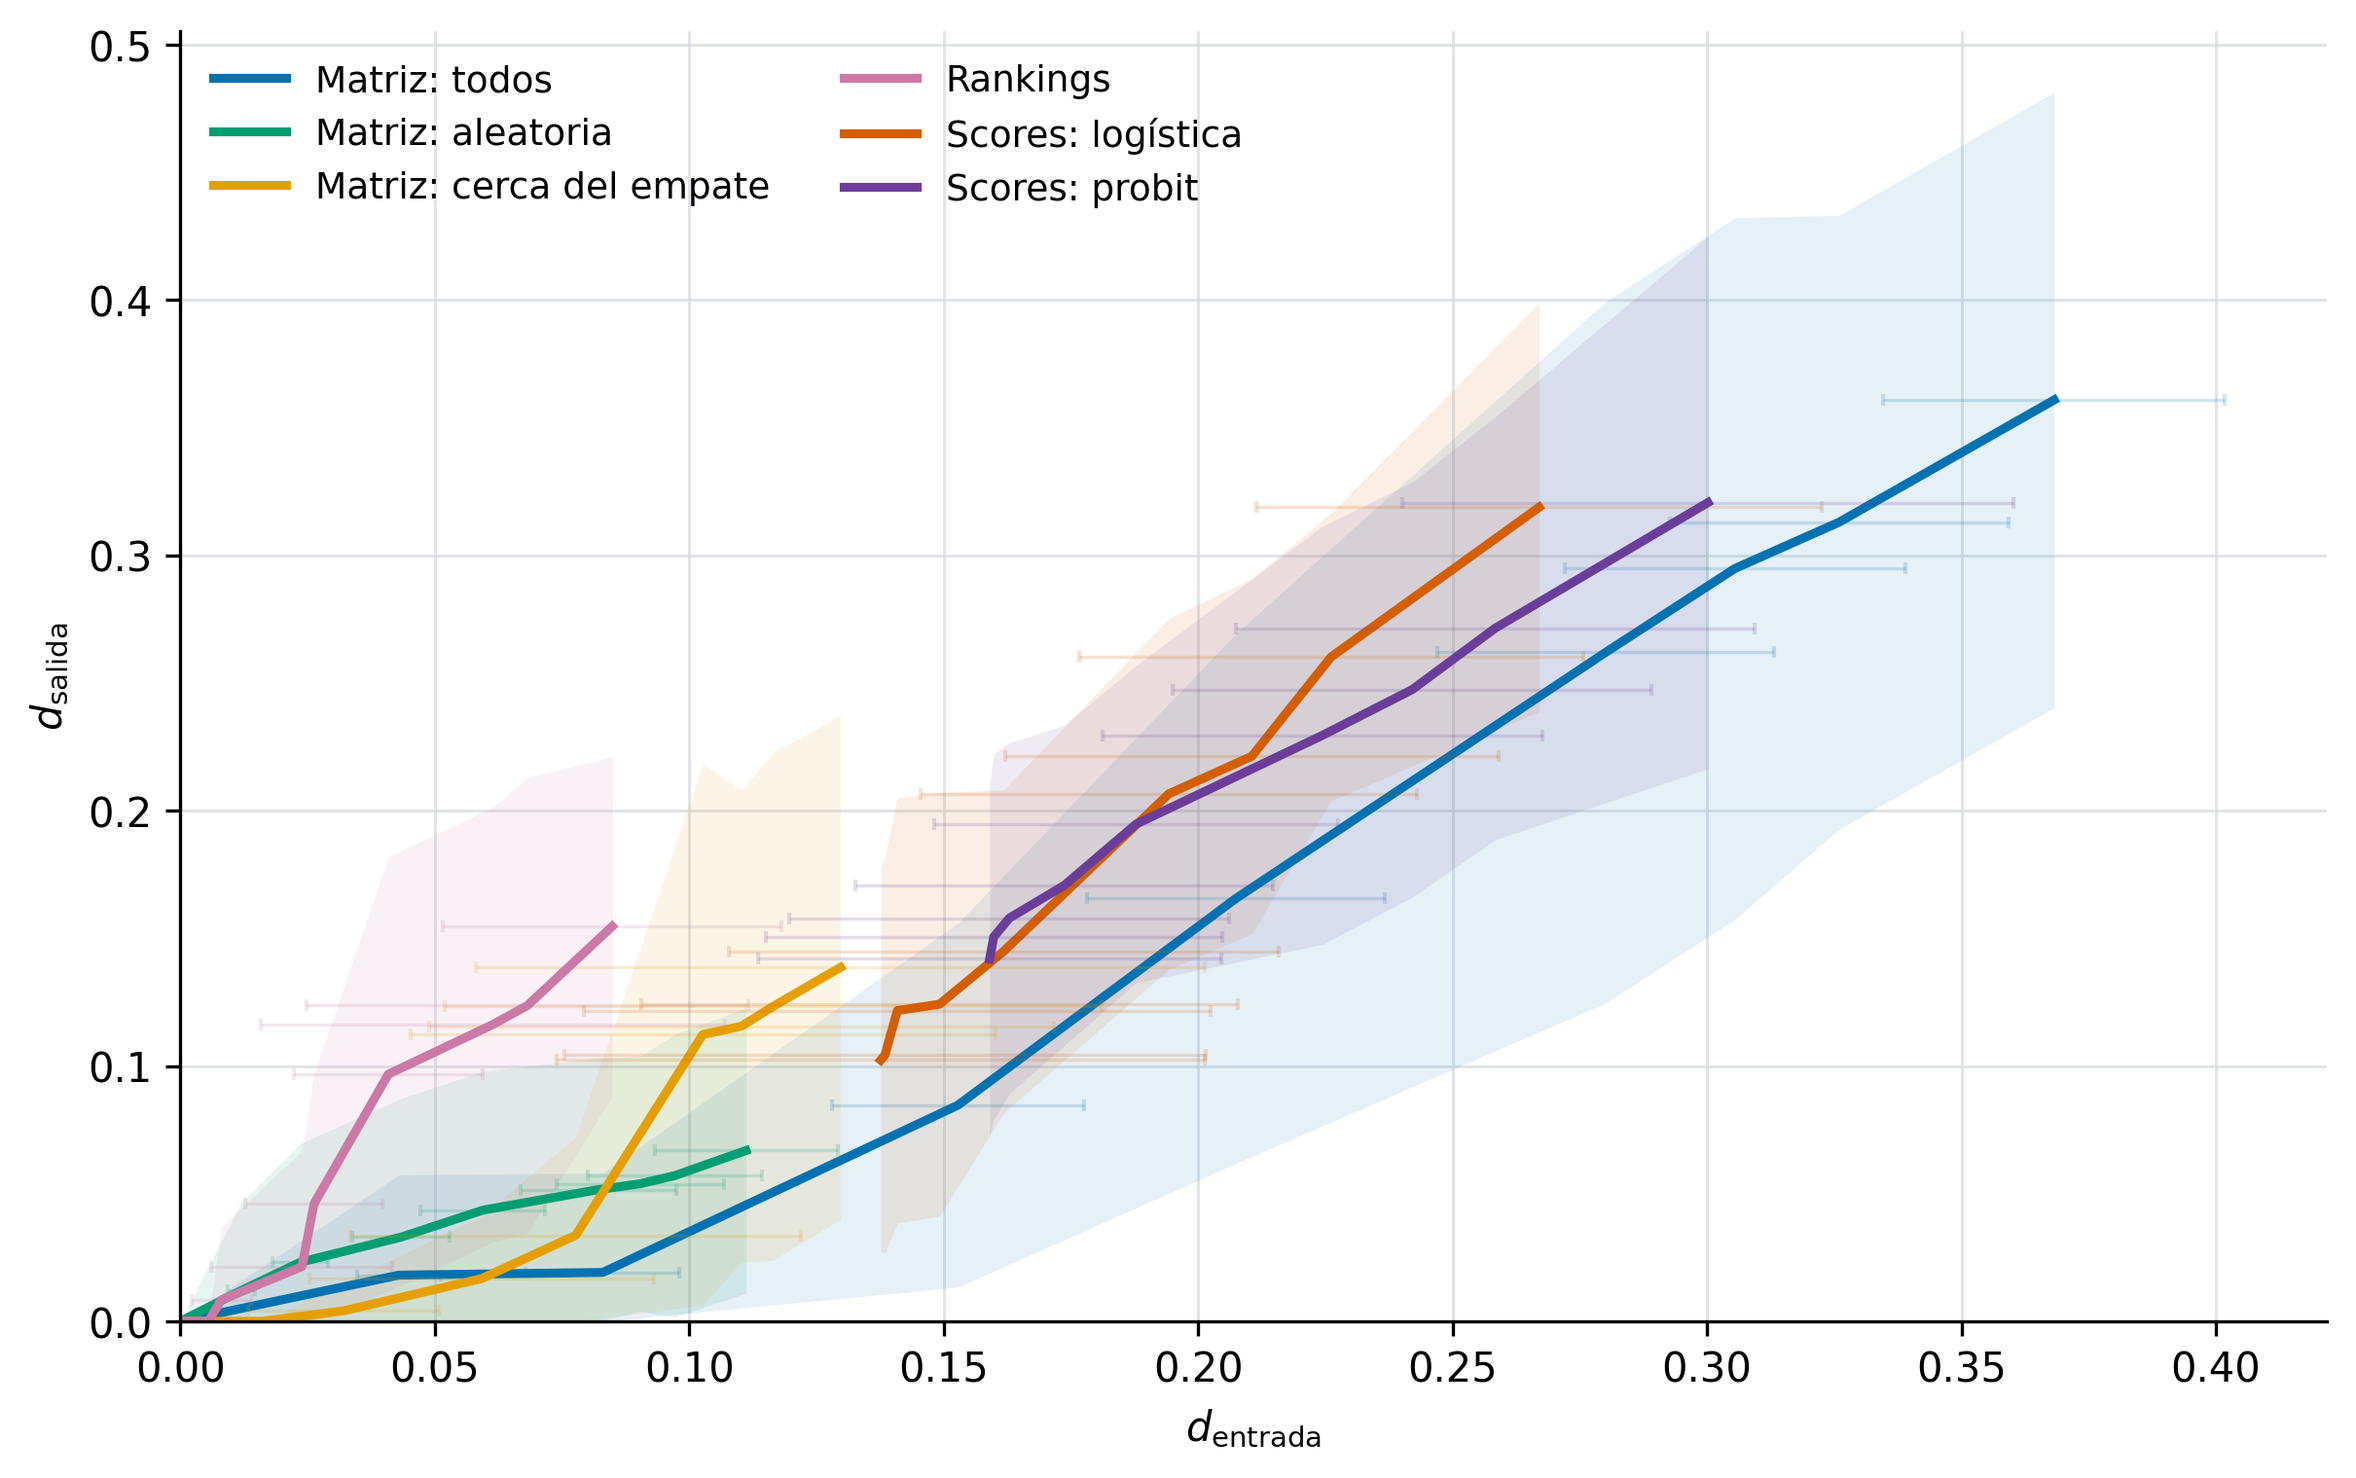
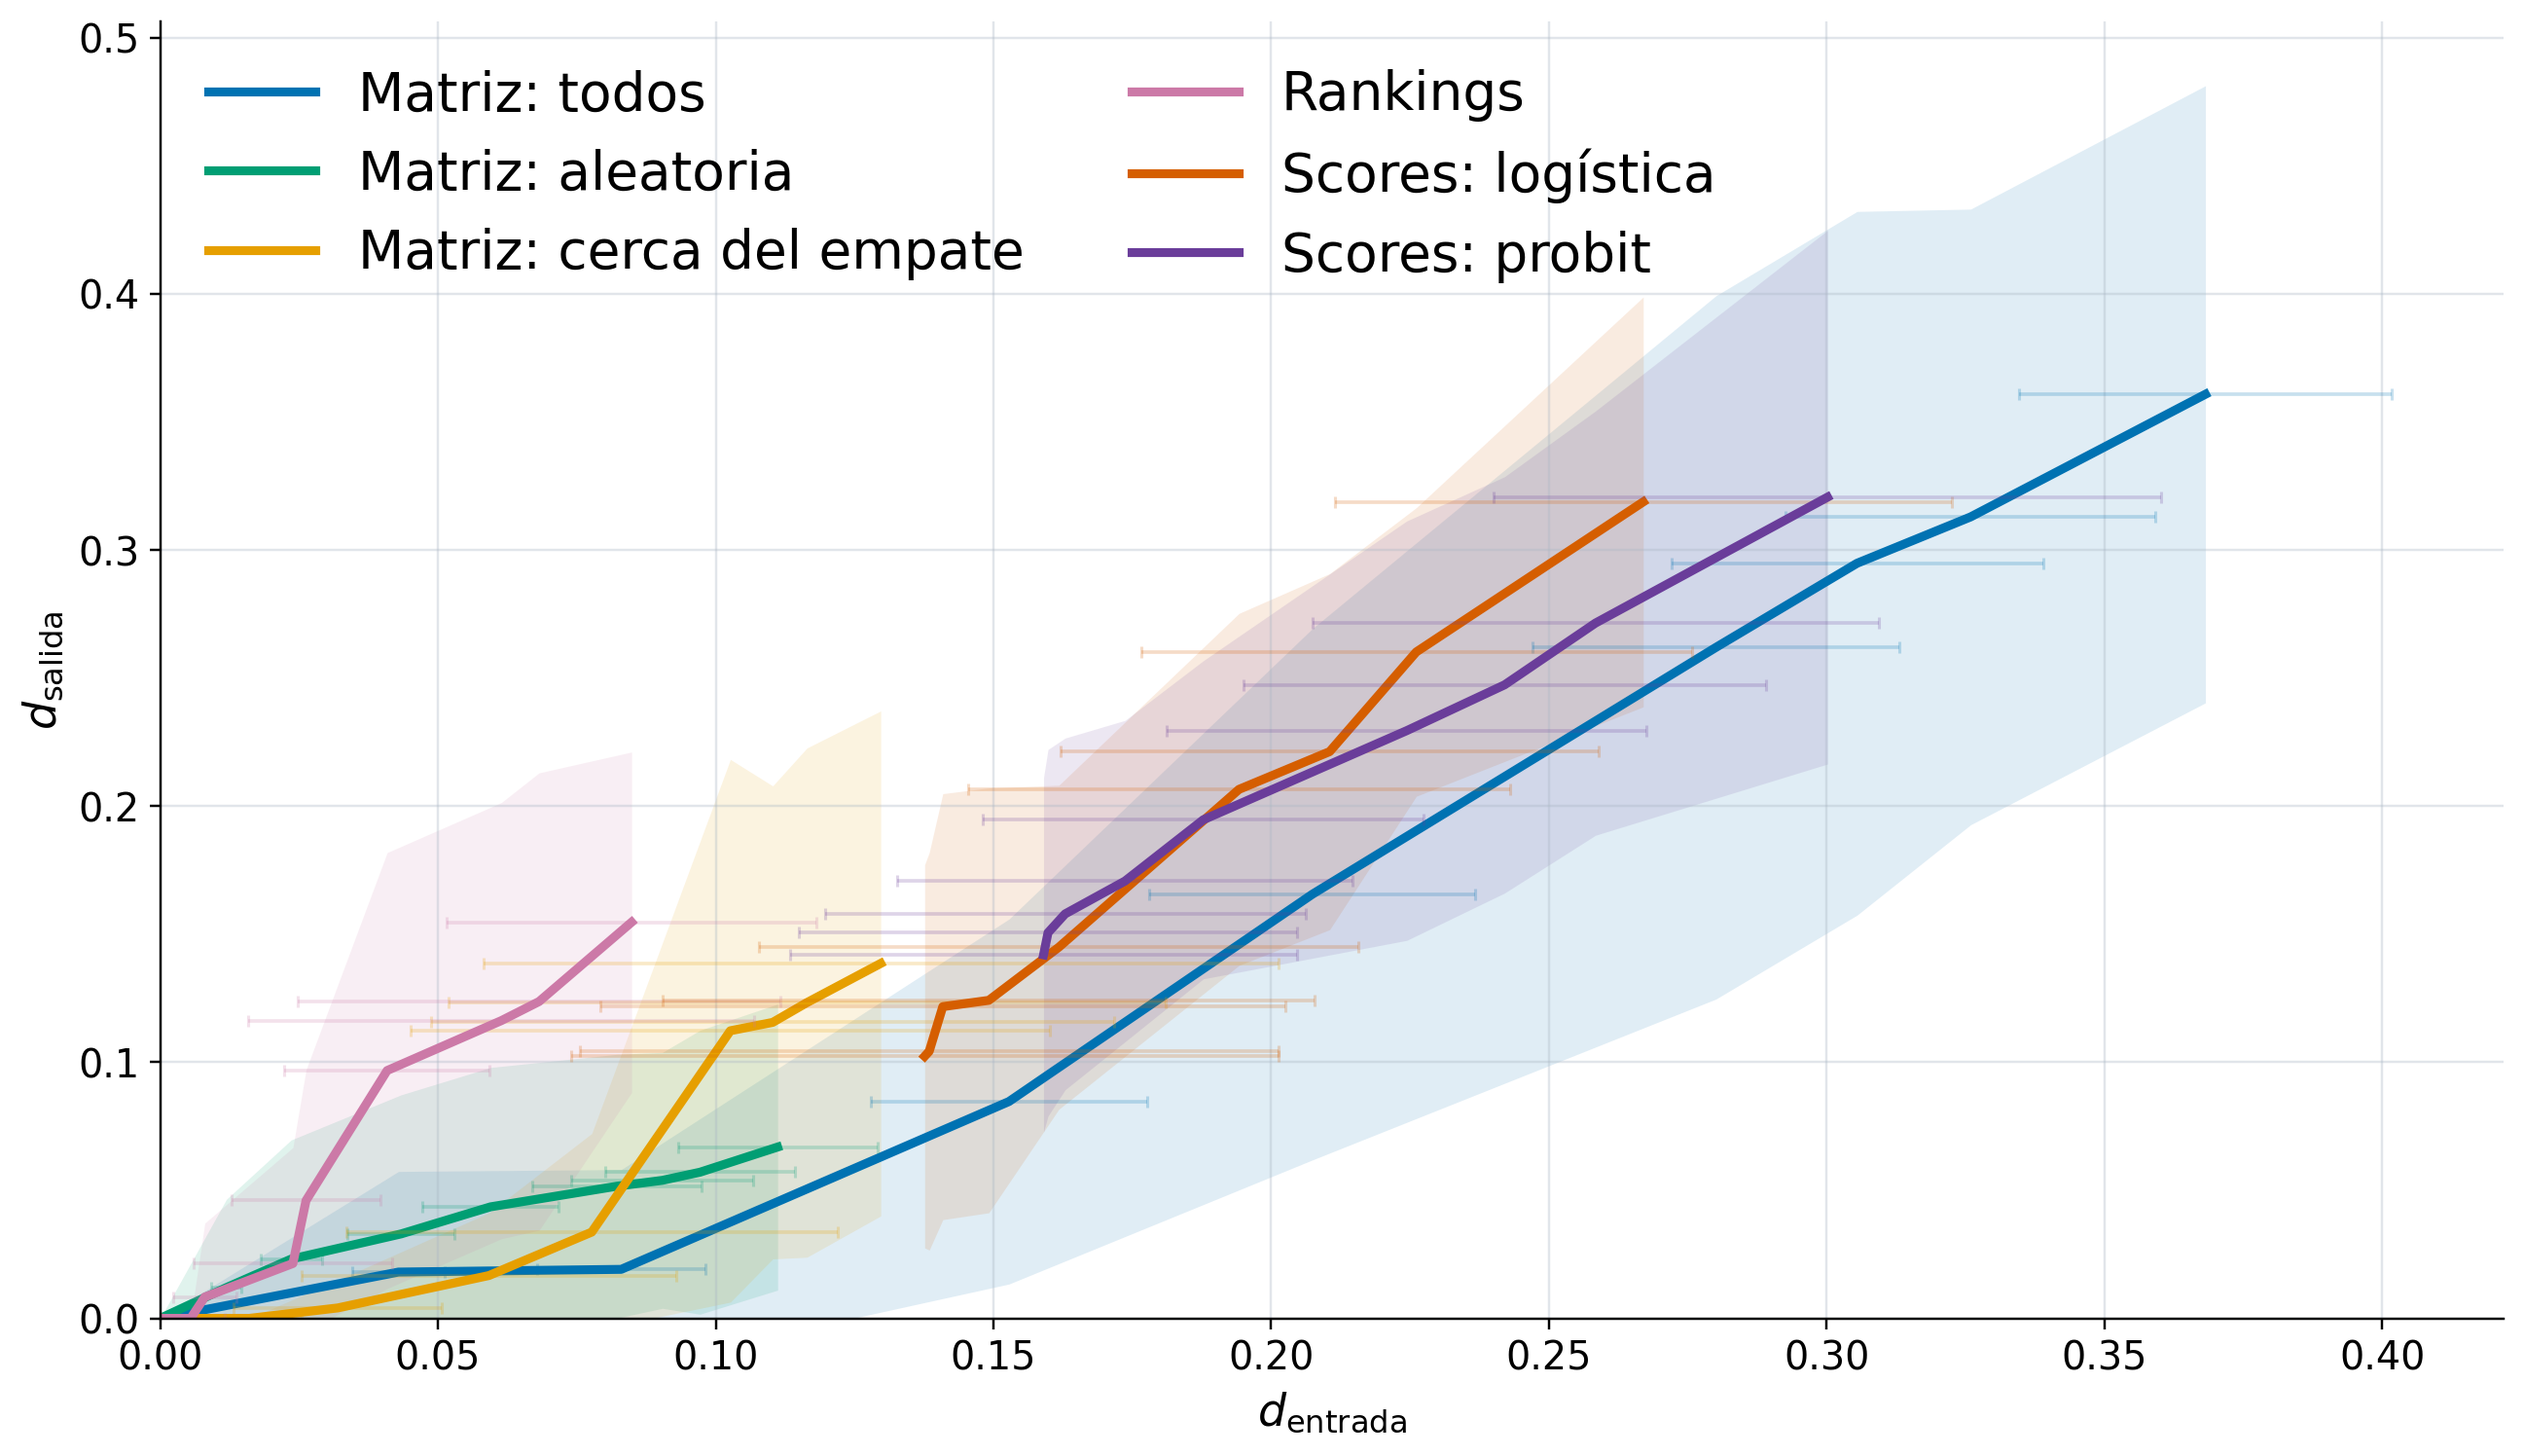
Cambiada leyenda de las figuras, añadido nuevos resultados de la simulación federada y corregido README

diff --git a/data/README.md b/data/README.md
@@ -13,7 +13,7 @@ Los datos proceden de PrefLib y contienen perfiles de preferencias en distintos 
 
 ## Instancias seleccionadas
 
-Aunque las carpetas pueden contener más ficheros, la experimentación final se ha realizado sobre seis instancias concretas:
+Aunque las carpetas pueden contener más ficheros, la experimentación final se ha realizado sobre cuatro instancias concretas:
 
 | Colección | Instancia | Formato |
 |---|---|---|
